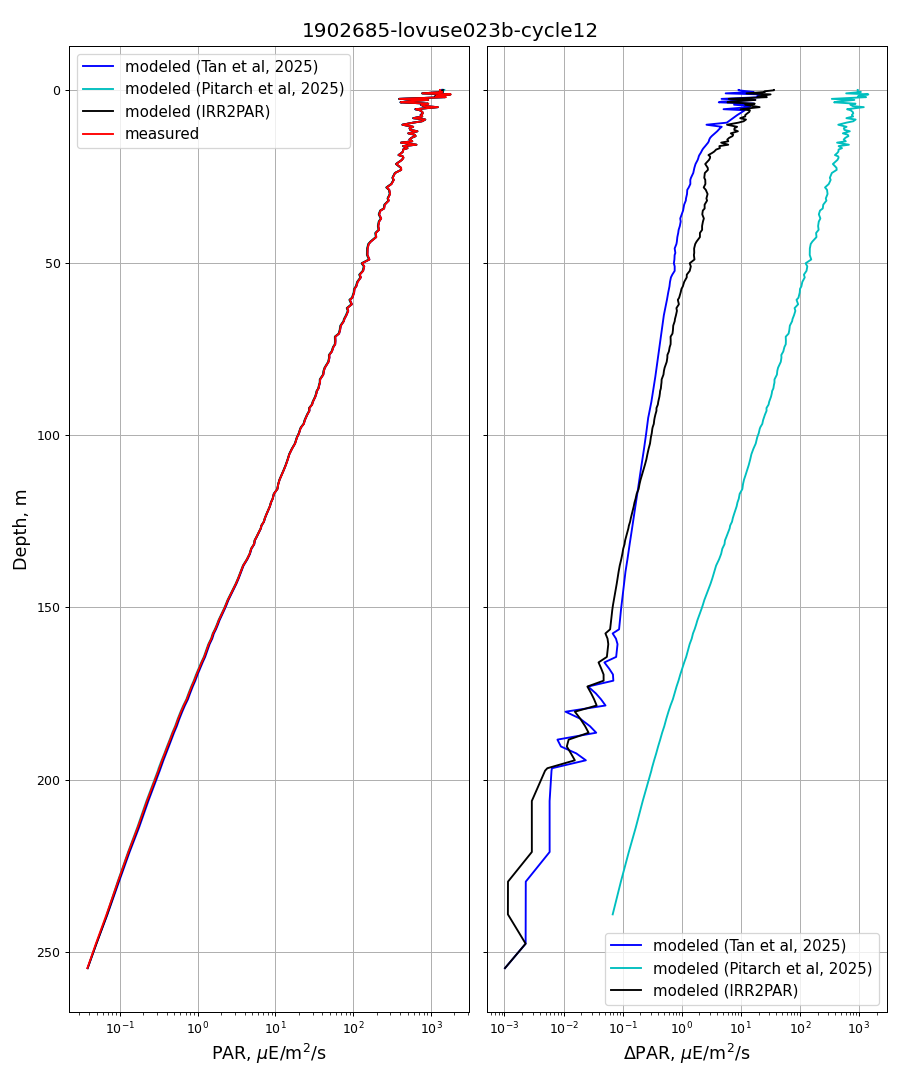
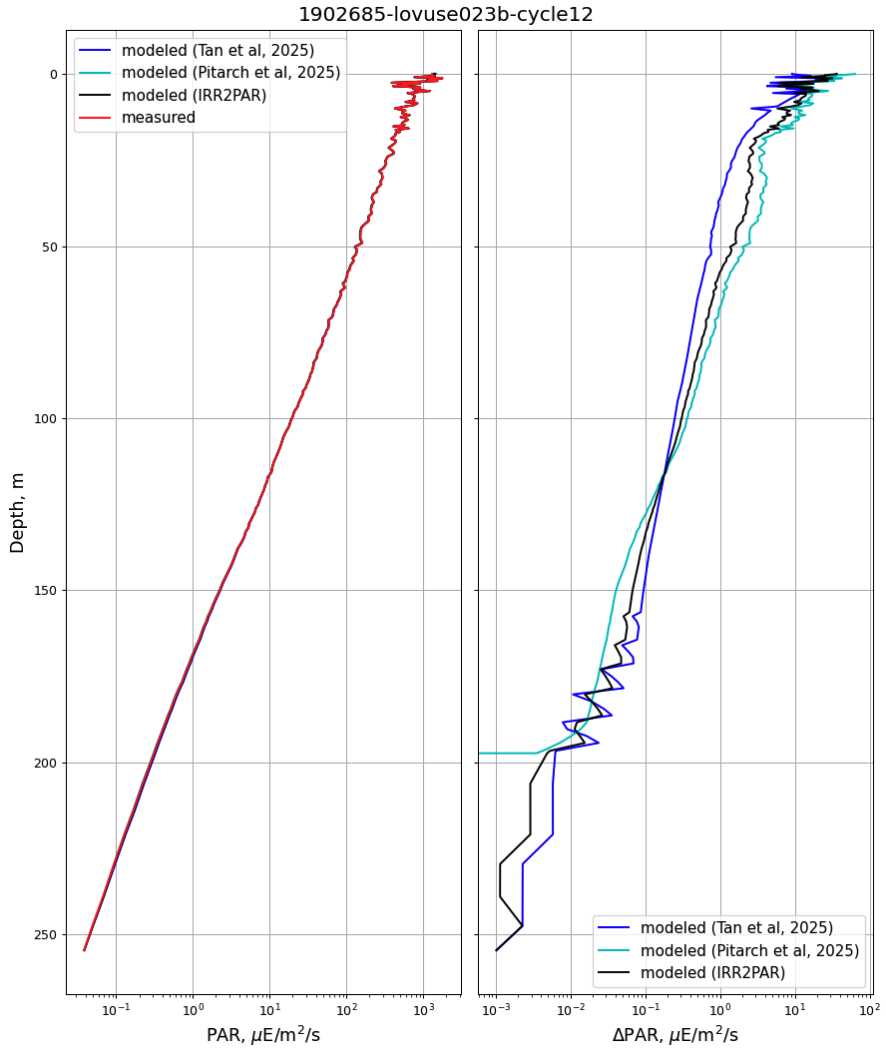
Fig plot, update output from IRR2PAR for lisibility

diff --git a/pyIRR2PAR/IRR2PAR.py b/pyIRR2PAR/IRR2PAR.py
@@ -16,19 +16,22 @@ def IRR2PAR(Ed, z):
 
     Returns two separate lists for each model's results, and a vector of the mean between mean_par and PAR (excluding NA/NaN values).
 
-    Parameters:
+    Parameters
+    ----------
     Ed -- 2D array with columns [Ed380, Ed443, Ed490, Ed555] in W/m2/nm
     z  -- depth
 
-    Returns:
-        - Two lists: first for JTan_2025 results, second for JPitarch_2025 results,
+    Returns
+    -------
+    Tan_Results, Pitarch_Results, mean_PAR, mean_uncertainty
+        - Tan_Results and Pitarch_Results are dictionaries with both methods outputs, best estimate is under the 'PAR' key and uncertainty under 'error'
         - mean_PAR : vector of the mean between mean_par and PAR (excluding NA/NaN values)
-        - mean_uncertainty : vector of uncertainties
+        - mean_uncertainty : vector of uncertainties (following Low of Propagation of Uncertainties assuming full correlation)
 
     """
     # Call JTan_PAR_from_Ed from JTan_2025 with input in uW/Cm2
     JTan_PAR, JTan_e = JTan_PAR_from_Ed(np.column_stack((100 * Ed, z)))
-    JTan_PAR_results = [JTan_PAR, JTan_e]
+    Tan_Results = {'PAR': JTan_PAR, 'error': JTan_e}
 
     # Remove negative values for JPitarch_2025
     Ed[Ed < 0] = np.nan
@@ -50,13 +53,12 @@ def IRR2PAR(Ed, z):
     # uncertainties
     # Convert IQR_ep to absolute uncertainty
     JPitarch_e = JPitarch_PAR * (JPitarch_IQR_ep / 100)
-    JPitarch_PAR_results = [
-        JPitarch_PAR,
-        JPitarch_PAR_b,
-        JPitarch_ep50,
-        JPitarch_IQR_ep,
-        JPitarch_e,
-    ]
+    Pitarch_Results = {'PAR': JPitarch_PAR, # Best PAR
+                       'PARb': JPitarch_PAR_b, # PAR with some remaining biases to be corrected with ep50.
+                       'ep50': JPitarch_ep50, # Estimated median percent error of the output value, as a function of depth.
+                       'IQR': JPitarch_IQR_ep, # Estimated interquartile range of the percent error of the output value, as a function of depth.
+                       'error': JPitarch_e, # Error estimate
+                       }
 
     # Calculate mean_uncertainty based on NaN conditions
     mean_uncertainty = np.where(
@@ -75,4 +77,4 @@ def IRR2PAR(Ed, z):
         ),
     )
 
-    return JTan_PAR_results, JPitarch_PAR_results, mean_PAR, mean_uncertainty
+    return Tan_Results, Pitarch_Results, mean_PAR, mean_uncertainty

diff --git a/README.md b/README.md
@@ -28,7 +28,8 @@ Parameters:
 * z  -- depth in dbar
 
 Returns:
-* Two lists: first for JTan_2025 results, second for JPitarch_2025 results,
+* JTan_PAR_results dictionary for Tan et al, 2025 results, 
+* JPitarch_PAR_results dictionary for Pitarch et al, 2025 results,
 * mean_PAR : Vector of the average PAR values from both models (excluding NA/NaN values). This is the PAR value recommended under the Argo framework.
 * mean_uncertainty : vector of uncertainties
 ```
@@ -69,11 +70,12 @@ par = df['RamsesPAR'] # Measured PAR (micro E/m2/s)
 profile = df[['Ed_380', 'Ed_443', 'Ed_490', 'Ed_555']].to_numpy()
 JTan_PAR_results, JPitarch_PAR_results, mean_PAR, mean_uncertainty = IRR2PAR(profile, df['depth'])
 
+# Some plots:
 fig, (ax1, ax2) = plt.subplots(1, 2, figsize=(10, 12), dpi=90, layout="constrained", sharey=True)
 fig.suptitle('1902685-lovuse023b-cycle12',fontsize=16)
 
-ax1.plot(JTan_PAR_results[0], d, 'b', label='modeled (Tan et al, 2025)')
-ax1.plot(JPitarch_PAR_results[0], d, 'c', label='modeled (Pitarch et al, 2025)')
+ax1.plot(JTan_PAR_results['PAR'], d, 'b', label='modeled (Tan et al, 2025)')
+ax1.plot(JPitarch_PAR_results['PAR'], d, 'c', label='modeled (Pitarch et al, 2025)')
 ax1.plot(mean_PAR, d, 'k', label='modeled (IRR2PAR)')
 ax1.plot(par, d, 'r',label='measured')
 ax1.set_ylabel('Depth, m',fontsize=14)
@@ -83,8 +85,8 @@ ax1.legend(fontsize=12)
 ax1.yaxis.set_inverted(True)
 ax1.grid()
 
-ax2.plot(JTan_PAR_results[1], d, 'b', label='modeled (Tan et al, 2025)')
-ax2.plot(JPitarch_PAR_results[1], d, 'c', label='modeled (Pitarch et al, 2025)')
+ax2.plot(JTan_PAR_results['error'], d, 'b', label='modeled (Tan et al, 2025)')
+ax2.plot(JPitarch_PAR_results['error'], d, 'c', label='modeled (Pitarch et al, 2025)')
 ax2.plot(mean_uncertainty, d, 'k', label='modeled (IRR2PAR)')
 ax2.set_xlabel(r'$\Delta$'+'PAR, '+r'$\mu$E/m$^{2}$/s',fontsize=14)
 ax2.set_xscale('log')
